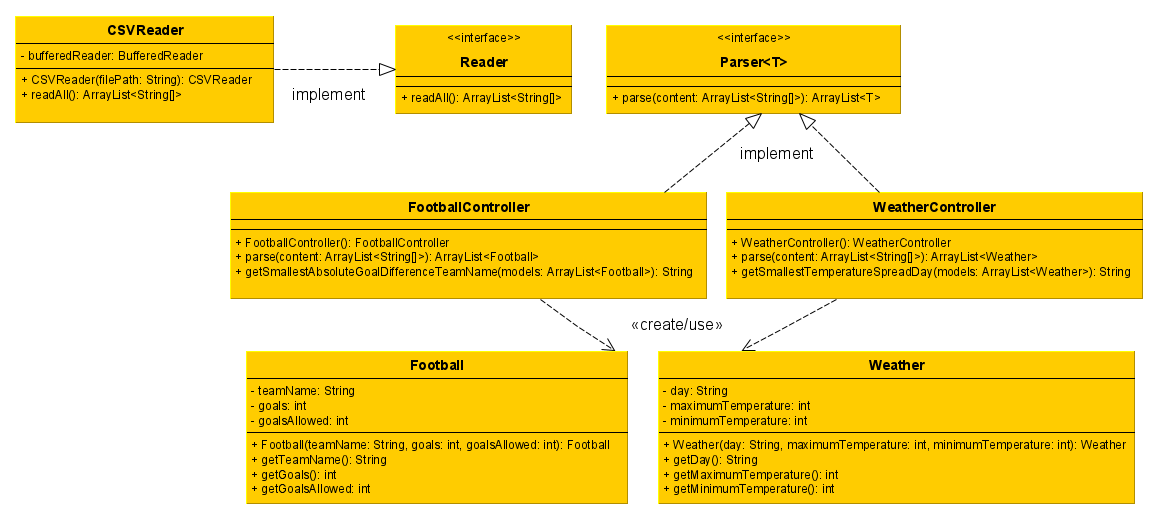
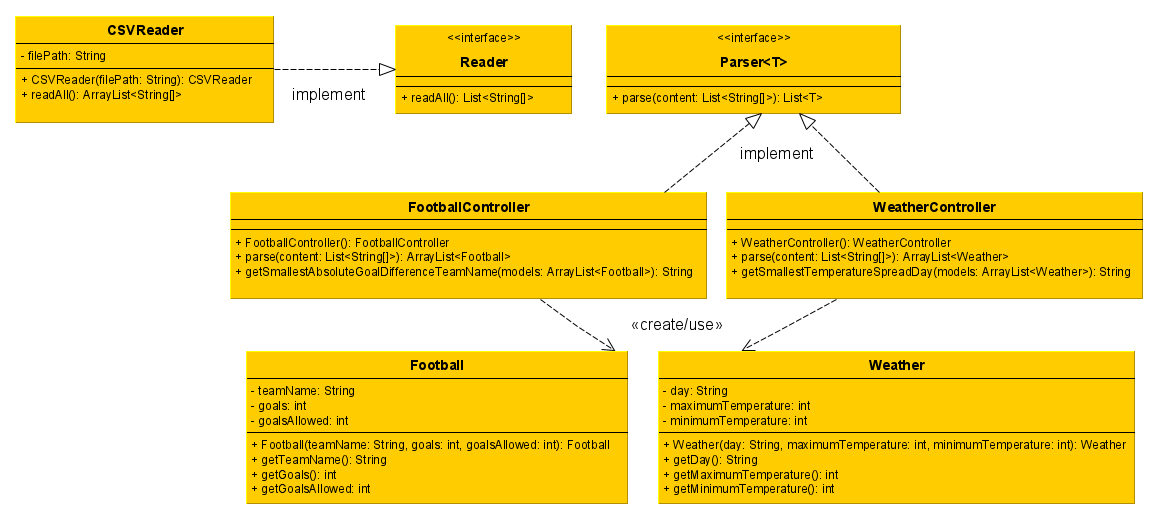
feat: add JCommander library for better parsing of CLI arguments
clean up code and use try-with-resources now in CSV reader

diff --git a/src/main/java/de/exxcellent/challenge/App.java b/src/main/java/de/exxcellent/challenge/App.java
@@ -1,7 +1,11 @@
 package de.exxcellent.challenge;
 
+import com.beust.jcommander.JCommander;
+import com.beust.jcommander.Parameter;
 import de.exxcellent.challenge.controller.FootballController;
 import de.exxcellent.challenge.controller.WeatherController;
+
+import java.util.Optional;
 
 /**
  * The entry class for your solution.
@@ -12,42 +16,33 @@ import de.exxcellent.challenge.controller.WeatherController;
  */
 public final class App {
 
+    @Parameter(names={"--weather"})
+    private String weatherFilePath;
+
+    @Parameter(names={"--football"})
+    private String footballFilePath;
+
     /**
      * This is the main entry method of your program.
      * @param args The CLI arguments passed.
      */
     public static void main(String... args) {
-        String weatherFilePath = "";
-        String footballFilePath = "";
+        App app = new App();
         // Check for CLI arguments: --weather and/or --football.
-        try {
-            if (args.length >= 2 && args[0].equals("--weather")) {
-                weatherFilePath = App.class.getResource(args[1]).getFile();
-            } else if (args.length >= 2 && args[0].equals("--football")) {
-                footballFilePath = App.class.getResource(args[1]).getFile();
-            }
-            if (args.length >= 4 && args[2].equals("--weather")) {
-                weatherFilePath = App.class.getResource(args[3]).getFile();
-            } else if (args.length >= 4 && args[2].equals("--football")) {
-                footballFilePath = App.class.getResource(args[3]).getFile();
-            }
-        } catch (NullPointerException e) {
-            e.printStackTrace();
-        }
+        JCommander.newBuilder()
+                .addObject(app)
+                .build()
+                .parse(args);
         // In case of missing or empty file name(s), try these fallbacks.
-        try {
-            if (weatherFilePath.isEmpty()) {
-                weatherFilePath = App.class.getResource("weather.csv").getFile();
-            }
-            if (footballFilePath.isEmpty()) {
-                footballFilePath = App.class.getResource("football.csv").getFile();
-            }
-        } catch (NullPointerException e) {
-            e.printStackTrace();
+        if (Optional.ofNullable(app.weatherFilePath).isEmpty()) {
+            app.weatherFilePath = "src/main/resources/de/exxcellent/challenge/weather.csv";
+        }
+        if (Optional.ofNullable(app.footballFilePath).isEmpty()) {
+            app.footballFilePath = "src/main/resources/de/exxcellent/challenge/football.csv";
         }
 
         // Execute weather task (1).
-        CSVReader csvWeatherReader = new CSVReader(weatherFilePath);
+        CSVReader csvWeatherReader = new CSVReader(app.weatherFilePath);
         WeatherController weatherController = new WeatherController();
         String day = weatherController.getSmallestTemperatureSpreadDay(
                 weatherController.parse(csvWeatherReader.readAll())
@@ -55,7 +50,7 @@ public final class App {
         System.out.printf("Day with smallest temperature spread : %s%n", day);
 
         // Execute football task (2).
-        CSVReader csFootballReader = new CSVReader(footballFilePath);
+        CSVReader csFootballReader = new CSVReader(app.footballFilePath);
         FootballController footballController = new FootballController();
         String teamName = footballController.getSmallestAbsoluteGoalDifferenceTeamName(
                 footballController.parse(csFootballReader.readAll())

diff --git a/src/main/java/de/exxcellent/challenge/CSVReader.java b/src/main/java/de/exxcellent/challenge/CSVReader.java
@@ -1,8 +1,8 @@
 package de.exxcellent.challenge;
 
 import java.io.BufferedReader;
-import java.io.FileNotFoundException;
 import java.io.FileReader;
+import java.io.IOException;
 import java.util.ArrayList;
 
 /**
@@ -12,33 +12,27 @@ import java.util.ArrayList;
  */
 public class CSVReader implements Reader {
 
-    // Enables efficient reading of text data.
-    private BufferedReader bufferedReader;
+    private final String filePath;
 
     /**
      * Constructor expect a valid file path.
      *
      * @param filePath Valid CSV file path.
      */
-    public CSVReader(String filePath){
-        try {
-            this.bufferedReader = new BufferedReader(new FileReader(filePath));
-        } catch (FileNotFoundException e) {
-            e.printStackTrace();
-        }
+    public CSVReader(String filePath) {
+        this.filePath = filePath;
     }
 
     @Override
     public ArrayList<String[]> readAll() {
         ArrayList<String[]> content = new ArrayList<>();
-        try {
+        try (BufferedReader bufferedReader = new BufferedReader(new FileReader(filePath))) {
             String row;
             bufferedReader.readLine(); // Skip first row
             while ((row = bufferedReader.readLine()) != null) {
                 content.add(row.split(","));
             }
-            bufferedReader.close();
-        } catch (Exception e) {
+        } catch (IOException e) {
             e.printStackTrace();
         }
         return content;

diff --git a/src/main/java/de/exxcellent/challenge/controller/FootballController.java b/src/main/java/de/exxcellent/challenge/controller/FootballController.java
@@ -3,6 +3,7 @@ package de.exxcellent.challenge.controller;
 import de.exxcellent.challenge.model.Football;
 
 import java.util.ArrayList;
+import java.util.List;
 
 /**
  * The football controller handles the parsing to football models and returns specific football data.
@@ -12,7 +13,7 @@ import java.util.ArrayList;
 public class FootballController implements Parser<Football> {
 
     @Override
-    public ArrayList<Football> parse(ArrayList<String[]> content) {
+    public ArrayList<Football> parse(List<String[]> content) {
         ArrayList<Football> models = new ArrayList<>();
         content.forEach((row) -> models.add(new Football(row[0], Integer.parseInt(row[5]), Integer.parseInt(row[6]))));
         return models;

diff --git a/src/main/java/de/exxcellent/challenge/controller/WeatherController.java b/src/main/java/de/exxcellent/challenge/controller/WeatherController.java
@@ -3,6 +3,7 @@ package de.exxcellent.challenge.controller;
 import de.exxcellent.challenge.model.Weather;
 
 import java.util.ArrayList;
+import java.util.List;
 
 /**
  * The weather controller handles the parsing to weather models and returns specific weather data.
@@ -12,7 +13,7 @@ import java.util.ArrayList;
 public class WeatherController implements Parser<Weather> {
 
     @Override
-    public ArrayList<Weather> parse(ArrayList<String[]> content) {
+    public ArrayList<Weather> parse(List<String[]> content) {
         ArrayList<Weather> models = new ArrayList<>();
         content.forEach((row) -> models.add(new Weather(row[0], Integer.parseInt(row[1]), Integer.parseInt(row[2]))));
         return models;

diff --git a/src/main/java/de/exxcellent/challenge/controller/Parser.java b/src/main/java/de/exxcellent/challenge/controller/Parser.java
@@ -1,6 +1,6 @@
 package de.exxcellent.challenge.controller;
 
-import java.util.ArrayList;
+import java.util.List;
 
 /**
  * A generic parser interface to parse content (e.g. text lines).
@@ -12,10 +12,10 @@ import java.util.ArrayList;
 public interface Parser<T> {
 
     /**
-     * Method to parse the content to an ArrayList<String[]>.
+     * Method to parse the content to a List<String[]>.
      *
      * @param content The content of a file.
-     * @return An ArrayList with models of type T.
+     * @return A list with models of type T.
      */
-    ArrayList<T> parse(ArrayList<String[]> content);
+    List<T> parse(List<String[]> content);
 }

diff --git a/src/main/java/de/exxcellent/challenge/Reader.java b/src/main/java/de/exxcellent/challenge/Reader.java
@@ -1,6 +1,6 @@
 package de.exxcellent.challenge;
 
-import java.util.ArrayList;
+import java.util.List;
 
 /**
  * An interface to read single files at once.
@@ -10,9 +10,9 @@ import java.util.ArrayList;
 public interface Reader {
 
     /**
-     * Read the whole file and returns the content as ArrayList<String[]>.
+     * Read the whole file and returns the content as List<String[]>.
      *
-     * @return The content as an ArrayList<String[]>.
+     * @return The content as a List<String[]>.
      */
-    ArrayList<String[]> readAll();
+    List<String[]> readAll();
 }
